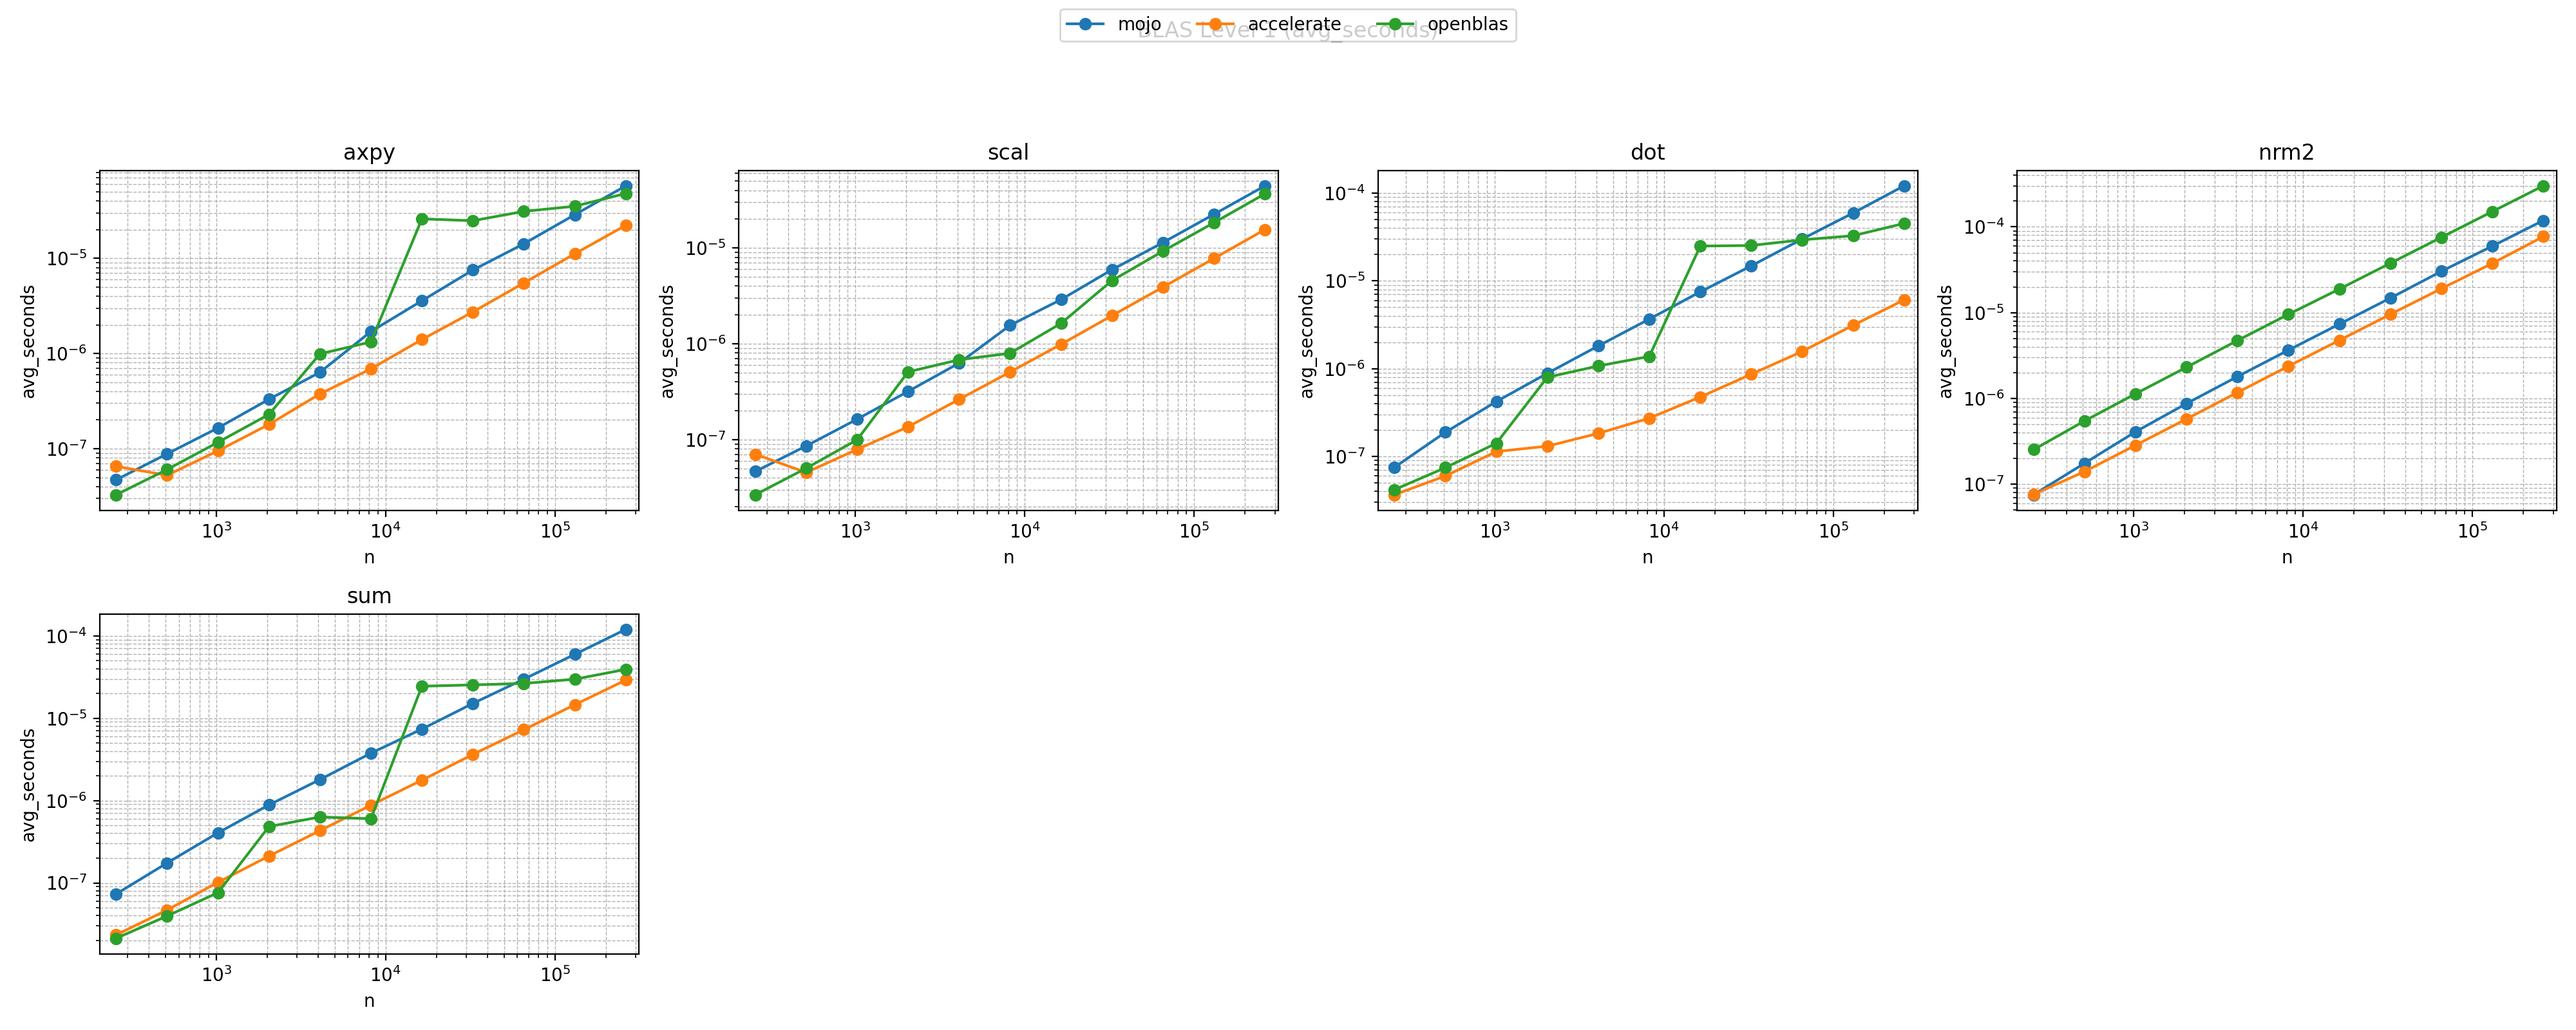
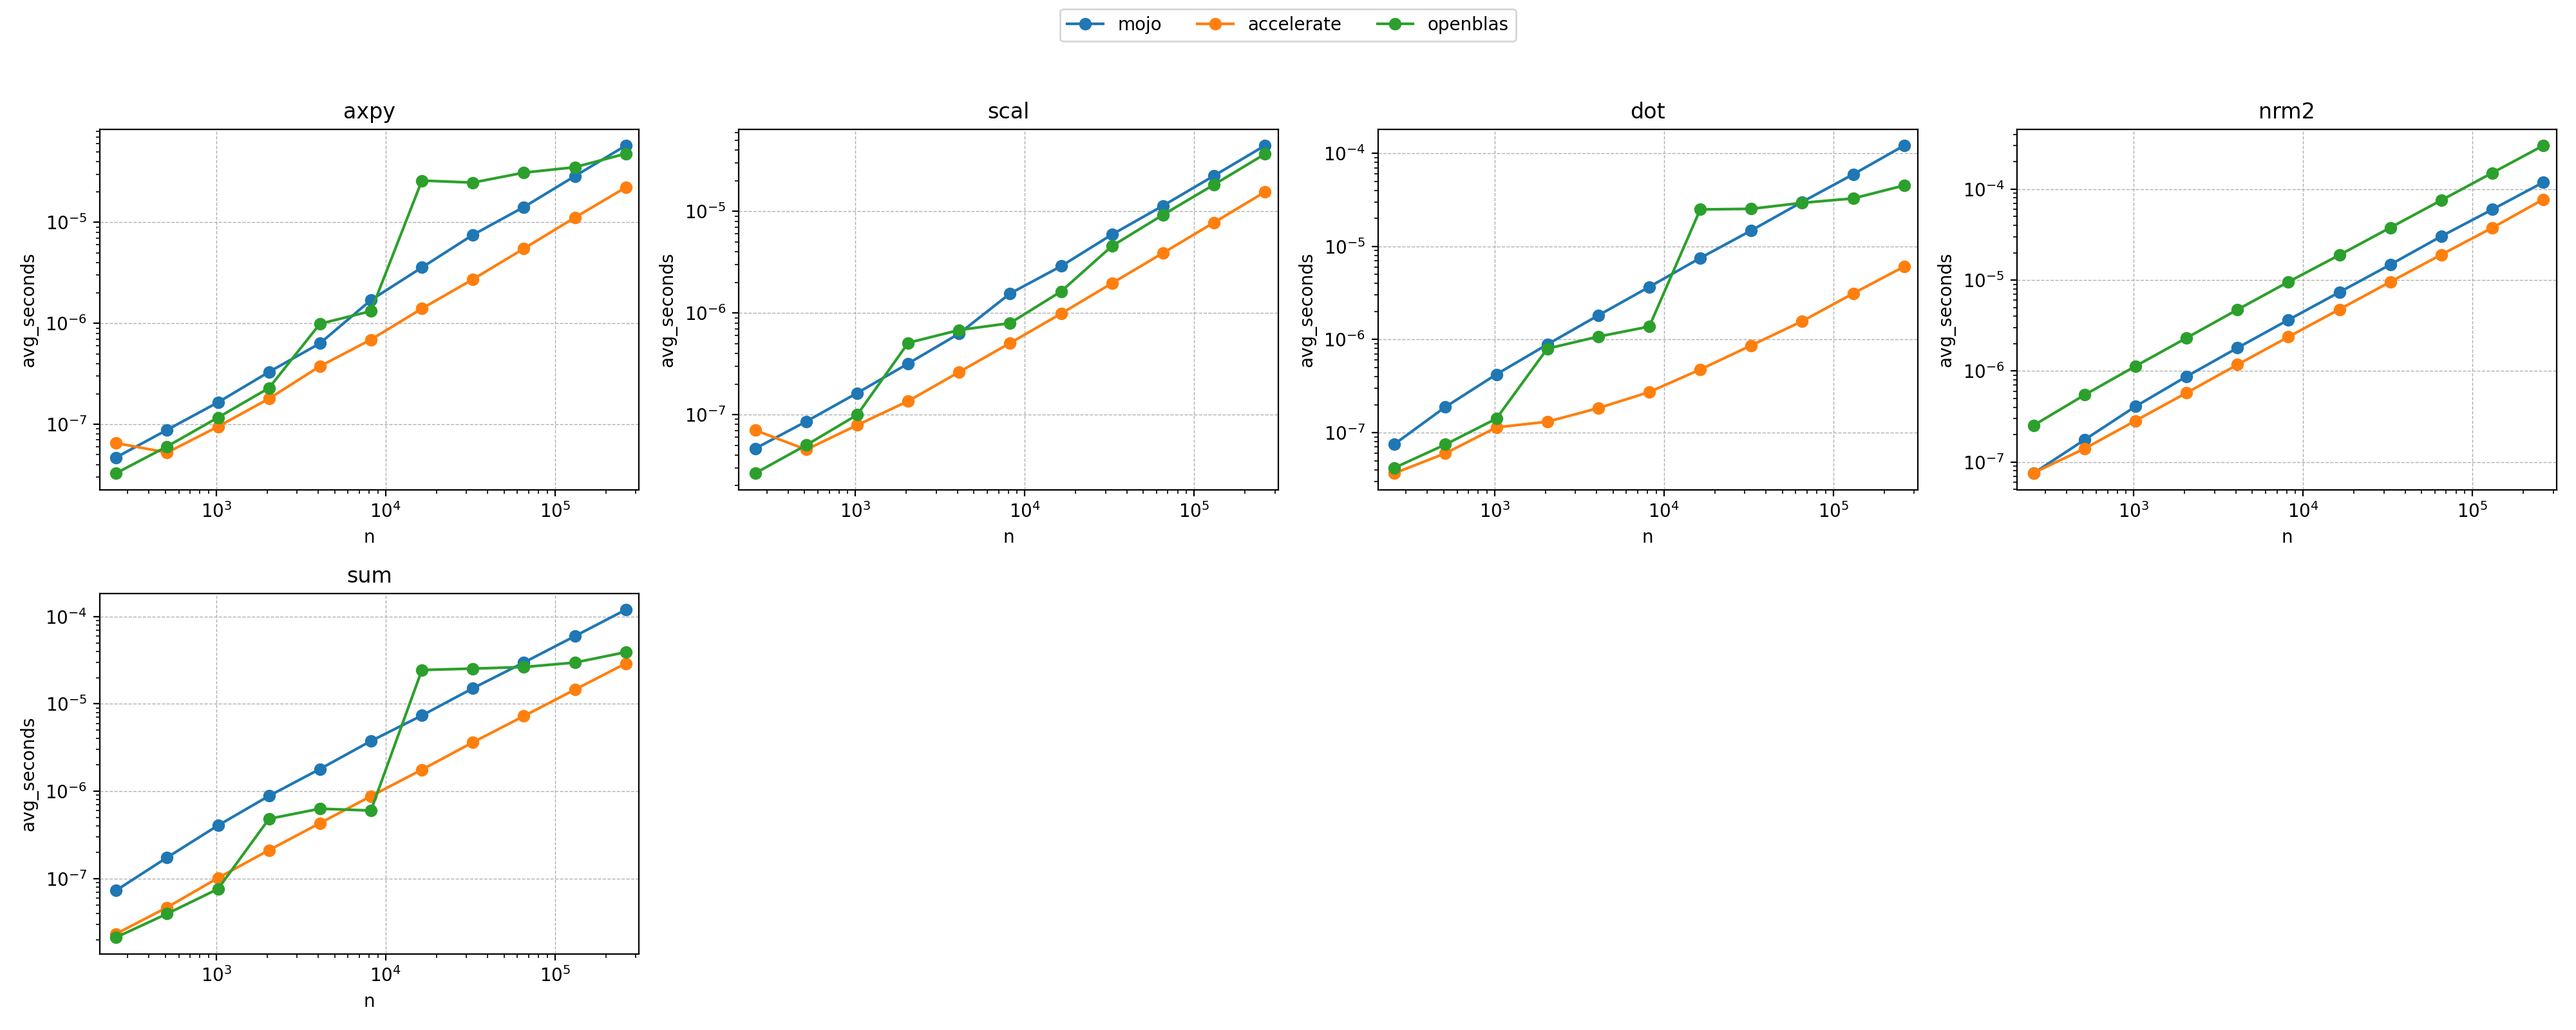
update plots

diff --git a/benchmarks/plot_bench.py b/benchmarks/plot_bench.py
@@ -70,7 +70,7 @@ def build_series(results, elem_sizes):
     return series
 
 
-def plot_level(series, out_path, title, ops):
+def plot_level(series, out_path, title, ops, scale):
     n_ops = len(ops)
     ncols = min(n_ops, 4)
     nrows = (n_ops + ncols - 1) // ncols
@@ -93,8 +93,8 @@ def plot_level(series, out_path, title, ops):
         ax.set_xlabel("n")
         ax.set_ylabel("avg_seconds")
         ax.set_yscale("log")
-        ax.grid(True, which="both", linestyle="--", linewidth=0.5)
-        ax.set_xscale("log")
+        ax.grid(True, which="major", linestyle="--", linewidth=0.5)
+        ax.set_xscale(scale)
         ax.set_xlim([min(xs) * 0.8, max(xs) * 1.2])
 
     for idx in range(len(ops), len(axes)):
@@ -107,7 +107,7 @@ def plot_level(series, out_path, title, ops):
             for lib in series.get(op, {}):
                 all_libs.add(lib)
         fig.legend(handles, labels, loc="upper center", ncol=len(all_libs))
-    fig.suptitle(title)
+    # fig.suptitle(title)
     fig.tight_layout(rect=[0, 0, 1, 0.92])
     fig.savefig(out_path, dpi=200)
 
@@ -143,18 +143,21 @@ def main():
         f"{args.out_prefix}_level1.png",
         "BLAS Level 1 (avg_seconds)",
         LEVEL1_OPS,
+        "log",
     )
     plot_level(
         series,
         f"{args.out_prefix}_level2.png",
         "BLAS Level 2 (avg_seconds)",
         LEVEL2_OPS,
+        "linear",
     )
     plot_level(
         series,
         f"{args.out_prefix}_level3.png",
         "BLAS Level 3 (avg_seconds)",
         LEVEL3_OPS,
+        "linear",
     )
 
 
